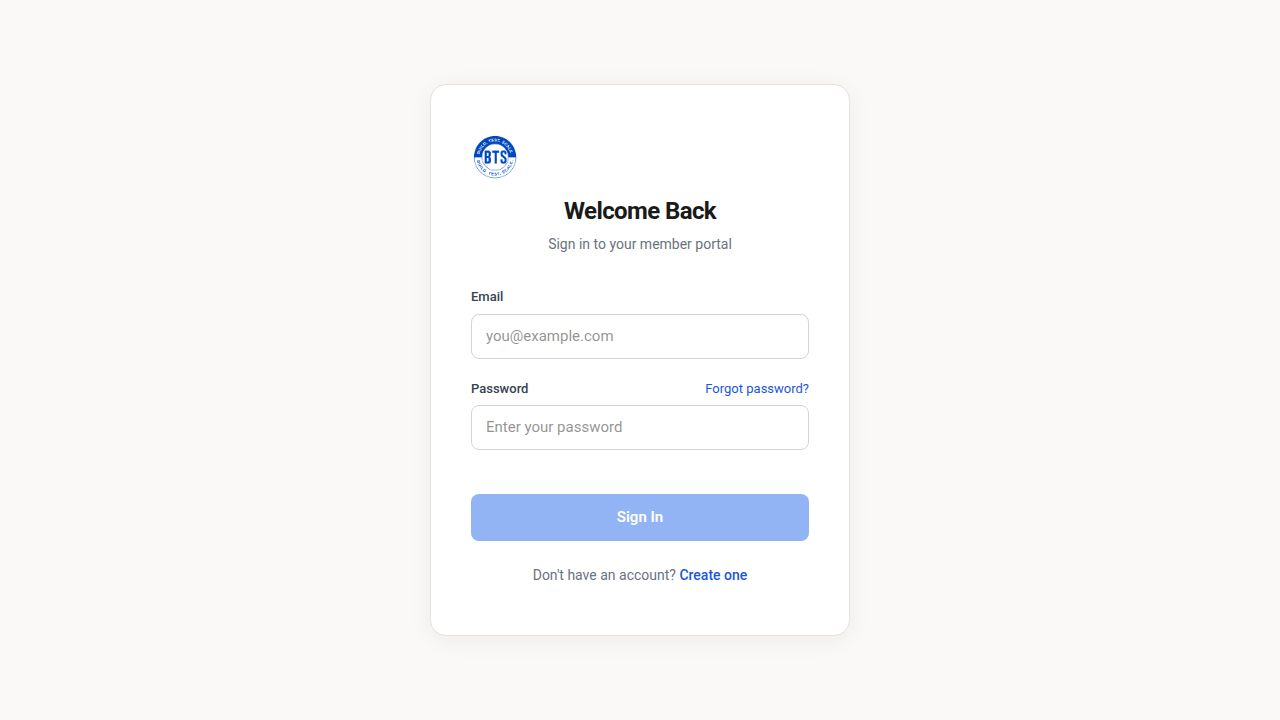
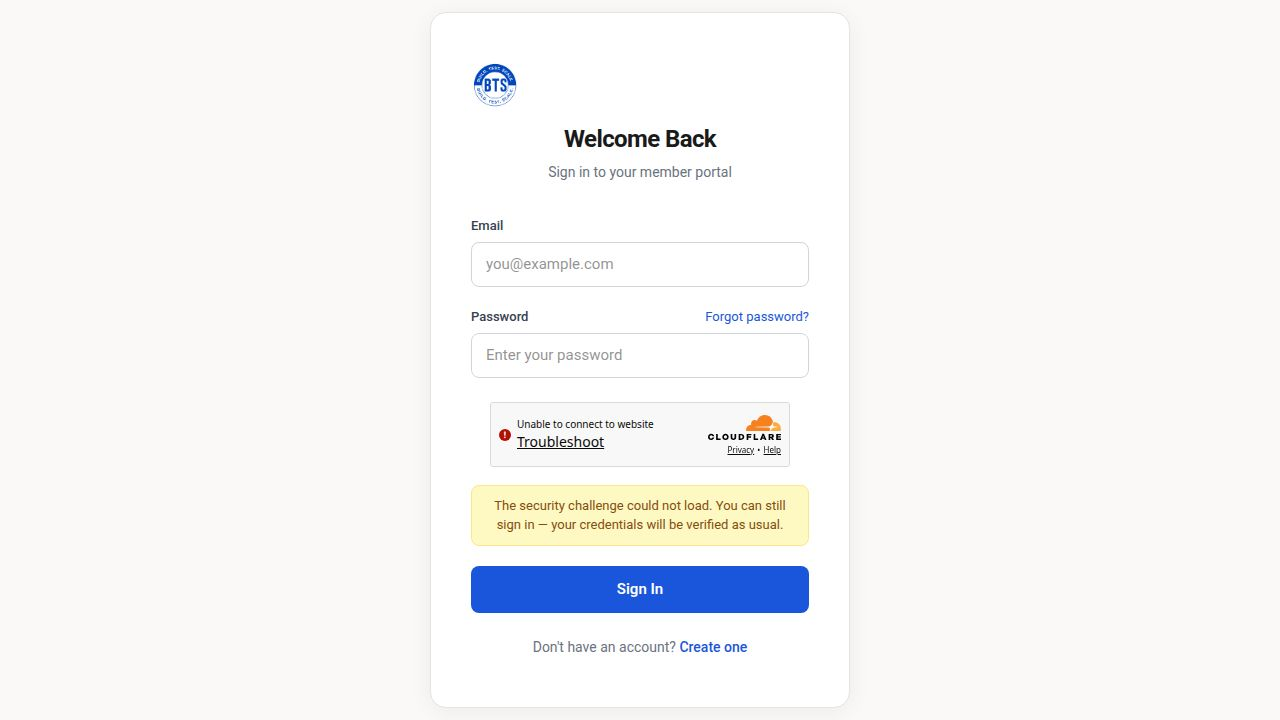
feat: Media Mavens Tapfiliate SSO login (#763)
## Summary
Replaces the non-functional disabled Register+Login buttons on the
Media Mavens affiliate network card with a single working SSO "Log in"
button that signs the member straight into their Tapfiliate dashboard
at offers.mediamavens.io — no separate Tapfiliate login prompt.

## Backend (artifacts/api-server)
- Added new route file: src/routes/tapfiliate-sso.ts
  - GET /api/affiliate/tapfiliate-sso (authenticated)
  - Loads member email+name from usersTable via req.userId
  - Splits name into firstname/lastname (falls back to "-" if empty,
    matching createAffiliate helper convention)
  - Signs an HS256 JWT with claims: iat, jti (randomUUID), email,
    firstname, lastname — as required by Tapfiliate SSO spec
  - Returns { url: "https://offers.mediamavens.io/sso/jwt/access/?jwt=<token>" }
  - Returns 503 with clear "not configured / contact administrator"
    message if TAPFILIATE_SSO_SECRET env var is missing (mirrors
    TapfiliateConfigError handling pattern in media-mavens-links.ts)
- Registered tapfiliateSSORrouter in src/routes/index.ts

## Frontend (artifacts/portal)
- Updated src/components/NetworkCard.tsx:
  - Special-cases slug === "media-mavens"
  - Hides both Register and Login URL-based buttons for Media Mavens
  - Renders MediaMavensLoginButton: calls /api/affiliate/tapfiliate-sso,
    opens the returned URL in a new tab (noopener), shows Loader2
    spinner while in-flight, shows destructive toast on error (503
[…]

diff --git a/artifacts/portal/src/components/NetworkCard.tsx b/artifacts/portal/src/components/NetworkCard.tsx
@@ -1,8 +1,12 @@
+import { useState } from "react";
 import { Card, CardContent } from "@/components/ui/card";
 import { Button } from "@/components/ui/button";
 import { Badge } from "@/components/ui/badge";
-import { Network, Star, CheckCircle2 } from "lucide-react";
+import { Network, Star, CheckCircle2, Loader2 } from "lucide-react";
 import { Link } from "wouter";
+import { useToast } from "@/hooks/use-toast";
+
+const API_BASE = `${import.meta.env.BASE_URL}api`;
 
 export interface NetworkCardData {
   slug: string;
@@ -43,12 +47,61 @@ export interface NetworkCardProps {
   disableLinks?: boolean;
 }
 
+function MediaMavensLoginButton({ slug }: { slug: string }) {
+  const [loading, setLoading] = useState(false);
+  const { toast } = useToast();
+
+  async function handleLogin() {
+    setLoading(true);
+    try {
+      const res = await fetch(`${API_BASE}/affiliate/tapfiliate-sso`, {
+        credentials: "include",
+      });
+      if (!res.ok) {
+        const data = await res.json().catch(() => ({}));
+        const msg =
+          res.status === 503
+            ? "Log in is temporarily unavailable. Please contact an administrator."
+            : (data.error as string) || "Failed to start login. Please try again.";
+        toast({ title: "Login unavailable", description: msg, variant: "destructive" });
+        return;
+      }
+      const { url } = await res.json();
+      window.open(url, "_blank", "noopener");
+    } catch {
+      toast({
+        title: "Login unavailable",
+        description: "Could not connect to the server. Please try again.",
+        variant: "destructive",
+      });
+    } finally {
+      setLoading(false);
+    }
+  }
+
+  return (
+    <Button
+      size="sm"
+      variant="outline"
+      disabled={loading}
+      onClick={handleLogin}
+      data-testid={`button-login-${slug}`}
+    >
+      {loading ? <Loader2 className="w-3 h-3 mr-1 animate-spin" /> : null}
+      Log in
+    </Button>
+  );
+}
+
 export function NetworkCard({
   network,
   testIdPrefix = "card-network",
   disableLinks = false,
 }: NetworkCardProps) {
-  const hasLinks = Boolean(network.registerUrl || network.loginUrl);
+  const isMediaMavens = network.slug === "media-mavens";
+  const hasLinks = isMediaMavens
+    ? true
+    : Boolean(network.registerUrl || network.loginUrl);
   const logoSrc = getLogoSrc(network.logoUrl);
 
   return (
@@ -163,36 +216,49 @@ export function NetworkCard({
                     </Button>
                   )
                 )}
-                {network.registerUrl && !disableLinks ? (
-                  <Button
-                    size="sm"
-                    asChild
-                    data-testid={`button-register-${network.slug}`}
-                  >
-                    <a href={network.registerUrl} target="_blank" rel="noreferrer">
-                      Register
-                    </a>
-                  </Button>
-                ) : (
-                  <Button size="sm" disabled type="button">
-                    Register
-                  </Button>
-                )}
-                {network.loginUrl && !disableLinks ? (
-                  <Button
-                    size="sm"
-                    variant="outline"
-                    asChild
-                    data-testid={`button-login-${network.slug}`}
-                  >
-                    <a href={network.loginUrl} target="_blank" rel="noreferrer">
+
+                {isMediaMavens ? (
+                  disableLinks ? (
+                    <Button size="sm" variant="outline" disabled type="button">
                       Log in
-                    </a>
-                  </Button>
+                    </Button>
+                  ) : (
+                    <MediaMavensLoginButton slug={network.slug} />
+                  )
                 ) : (
-                  <Button size="sm" variant="outline" disabled type="button">
-                    Log in
-                  </Button>
+                  <>
+                    {network.registerUrl && !disableLinks ? (
+                      <Button
+                        size="sm"
+                        asChild
+                        data-testid={`button-register-${network.slug}`}
+                      >
+                        <a href={network.registerUrl} target="_blank" rel="noreferrer">
+                          Register
+                        </a>
+                      </Button>
+                    ) : (
+                      <Button size="sm" disabled type="button">
+                        Register
+                      </Button>
+                    )}
+                    {network.loginUrl && !disableLinks ? (
+                      <Button
+                        size="sm"
+                        variant="outline"
+                        asChild
+                        data-testid={`button-login-${network.slug}`}
+                      >
+                        <a href={network.loginUrl} target="_blank" rel="noreferrer">
+                          Log in
+                        </a>
+                      </Button>
+                    ) : (
+                      <Button size="sm" variant="outline" disabled type="button">
+                        Log in
+                      </Button>
+                    )}
+                  </>
                 )}
               </div>
             </div>

diff --git a/artifacts/api-server/src/routes/tapfiliate-sso.ts b/artifacts/api-server/src/routes/tapfiliate-sso.ts
@@ -1,0 +1,72 @@
+import { Router, type Request, type Response } from "express";
+import { db, usersTable } from "@workspace/db";
+import { eq } from "drizzle-orm";
+import jwt from "jsonwebtoken";
+import { randomUUID } from "crypto";
+
+const router = Router();
+
+const TAPFILIATE_SSO_DASHBOARD = "https://offers.mediamavens.io";
+
+function getSsoSecret(): string {
+  const secret = process.env.TAPFILIATE_SSO_SECRET;
+  if (!secret) {
+    throw new Error("TAPFILIATE_SSO_SECRET is not configured");
+  }
+  return secret;
+}
+
+router.get("/affiliate/tapfiliate-sso", async (req: Request, res: Response) => {
+  try {
+    const userId = req.userId;
+    if (!userId) {
+      res.status(401).json({ error: "Authentication required" });
+      return;
+    }
+
+    let secret: string;
+    try {
+      secret = getSsoSecret();
+    } catch {
+      console.error("[TapfiliateSSO] TAPFILIATE_SSO_SECRET is not set");
+      res.status(503).json({
+        error:
+          "Tapfiliate SSO is temporarily unavailable: the SSO integration is not configured. Please contact an administrator.",
+      });
+      return;
+    }
+
+    const [user] = await db
+      .select({ email: usersTable.email, name: usersTable.name })
+      .from(usersTable)
+      .where(eq(usersTable.id, userId))
+      .limit(1);
+
+    if (!user) {
+      res.status(401).json({ error: "User not found" });
+      return;
+    }
+
+    const parts = (user.name ?? "").trim().split(/\s+/);
+    const firstname = parts[0] || "-";
+    const lastname = parts.slice(1).join(" ") || "-";
+
+    const payload = {
+      iat: Math.floor(Date.now() / 1000),
+      jti: randomUUID(),
+      email: user.email,
+      firstname,
+      lastname,
+    };
+
+    const token = jwt.sign(payload, secret, { algorithm: "HS256" });
+    const redirectUrl = `${TAPFILIATE_SSO_DASHBOARD}/sso/jwt/access/?jwt=${token}`;
+
+    res.json({ url: redirectUrl });
+  } catch (error) {
+    console.error("[TapfiliateSSO] Error generating SSO token:", error);
+    res.status(500).json({ error: "Failed to generate SSO token" });
+  }
+});
+
+export default router;

diff --git a/artifacts/api-server/src/routes/index.ts b/artifacts/api-server/src/routes/index.ts
@@ -70,6 +70,7 @@ import assistantCardsRouter from "./assistant-cards";
 import adminAssistantCardsRouter from "./admin-assistant-cards";
 import coachDashboardRouter from "./coach-dashboard";
 import mediaMavensLinksRouter from "./media-mavens-links";
+import tapfiliateSSORrouter from "./tapfiliate-sso";
 
 const router: IRouter = Router();
 
@@ -144,5 +145,6 @@ router.use(assistantCardsRouter);
 router.use(adminAssistantCardsRouter);
 router.use(coachDashboardRouter);
 router.use(mediaMavensLinksRouter);
+router.use(tapfiliateSSORrouter);
 
 export default router;